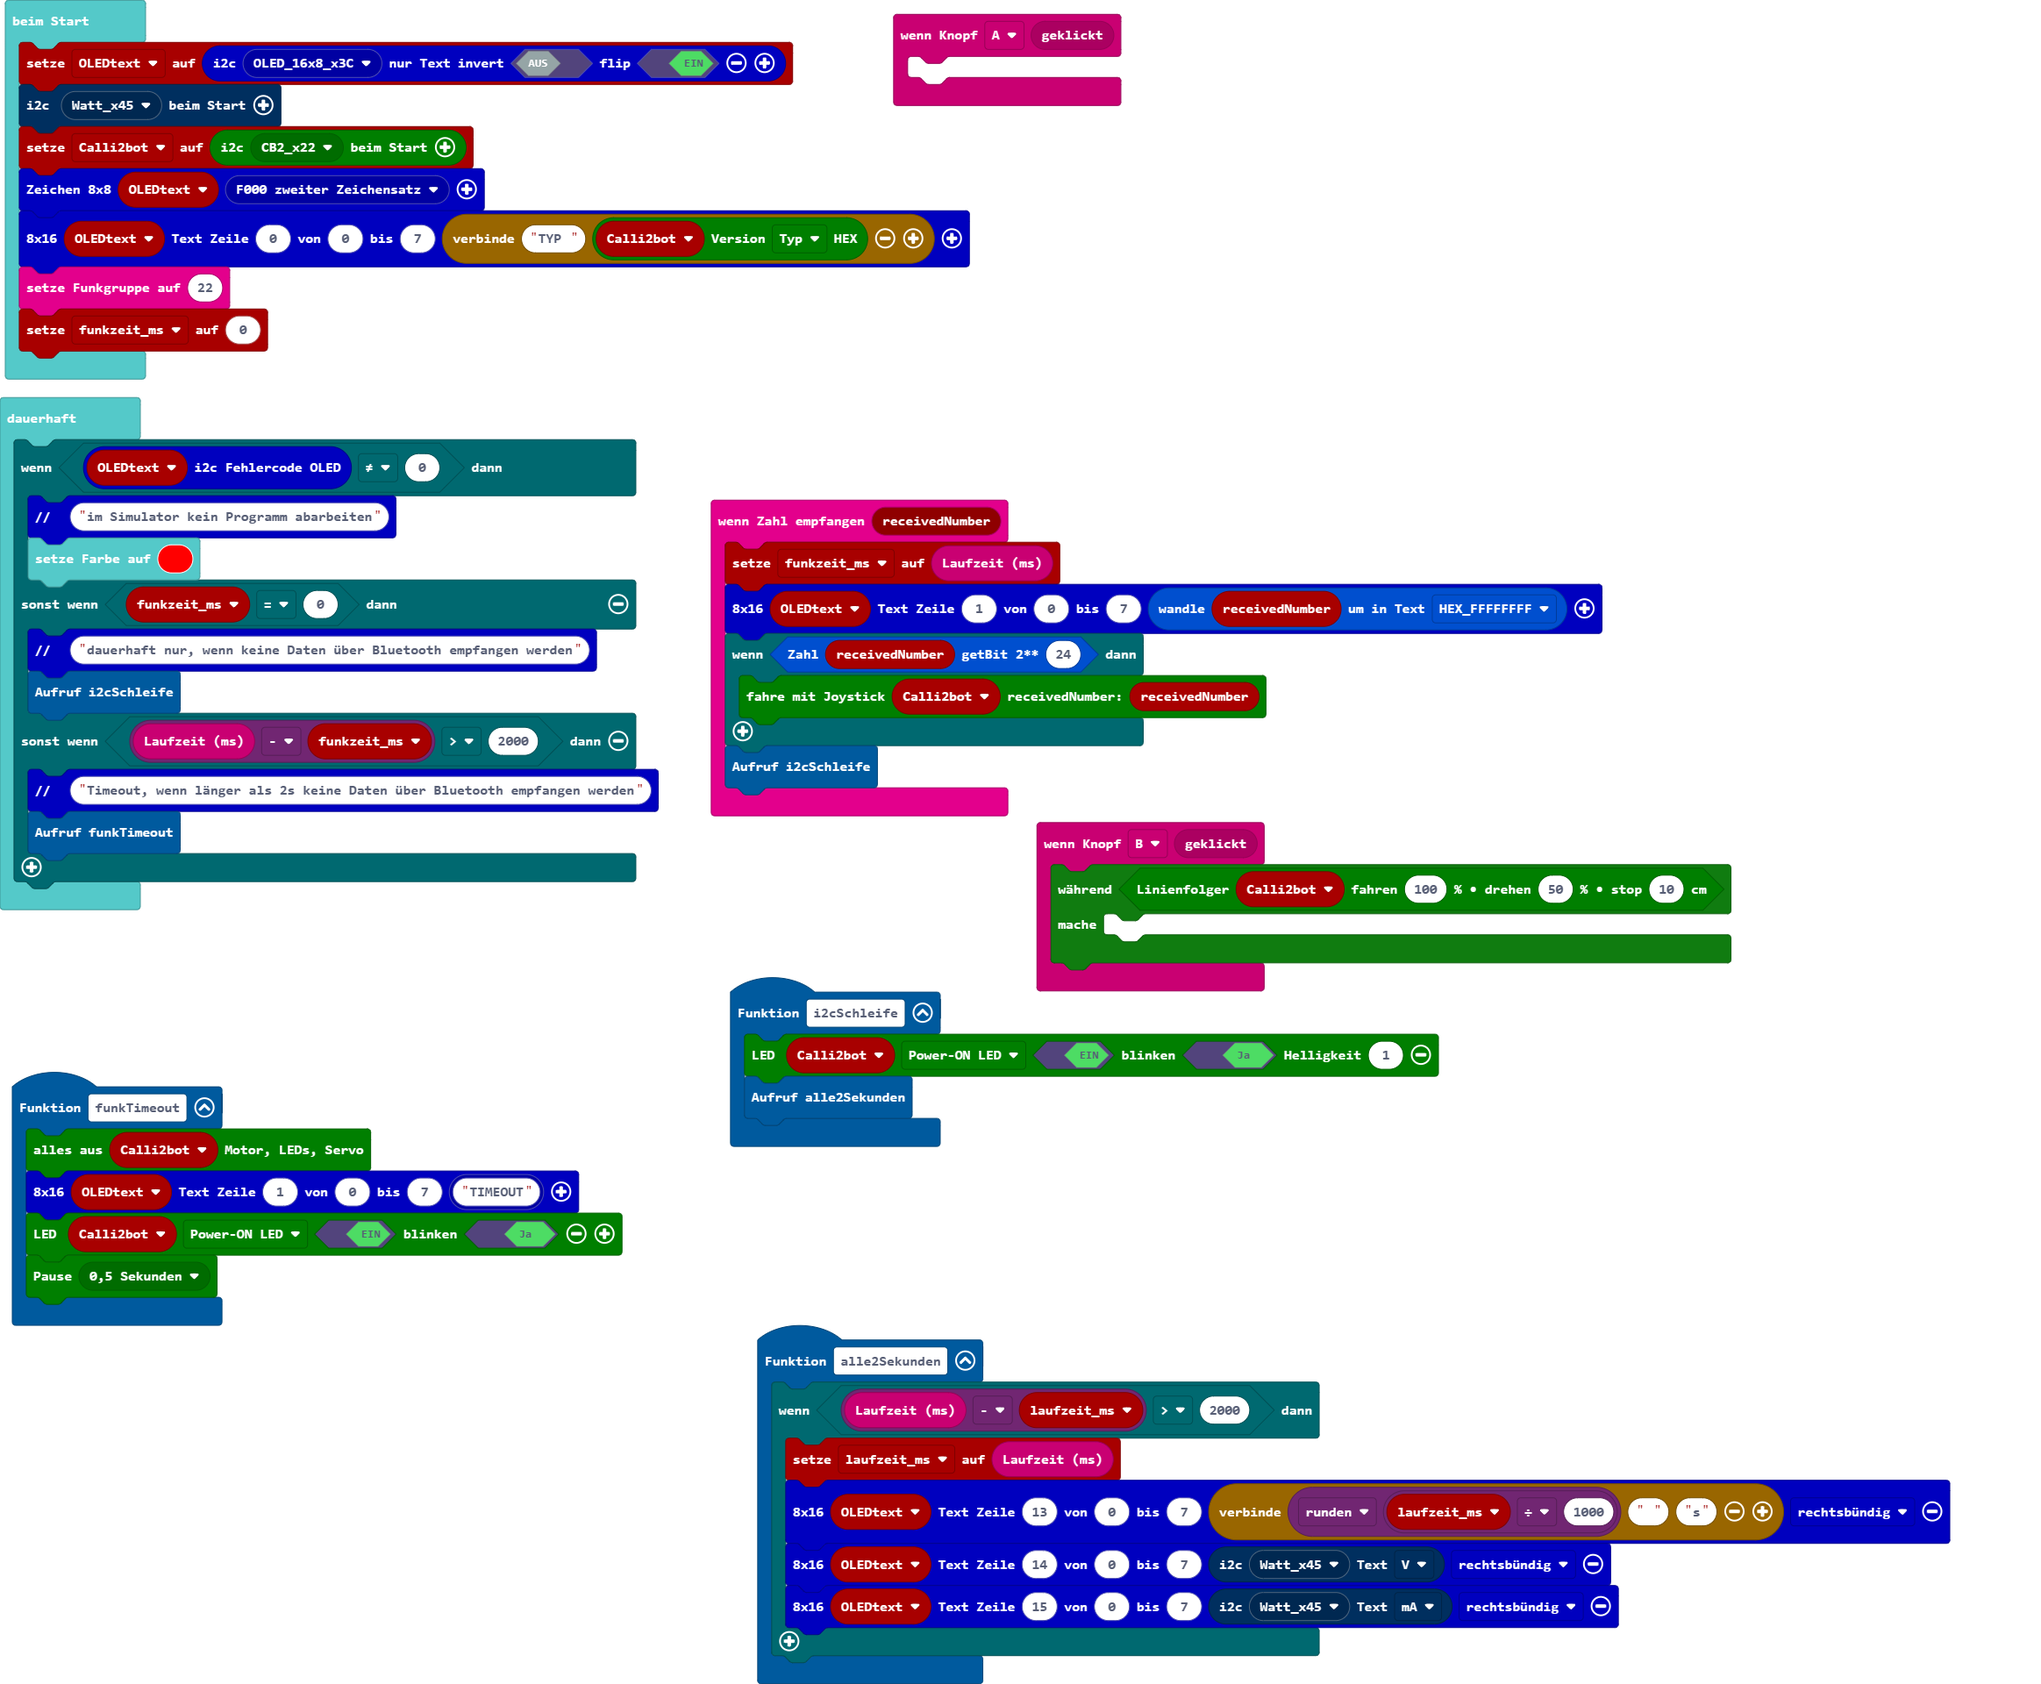
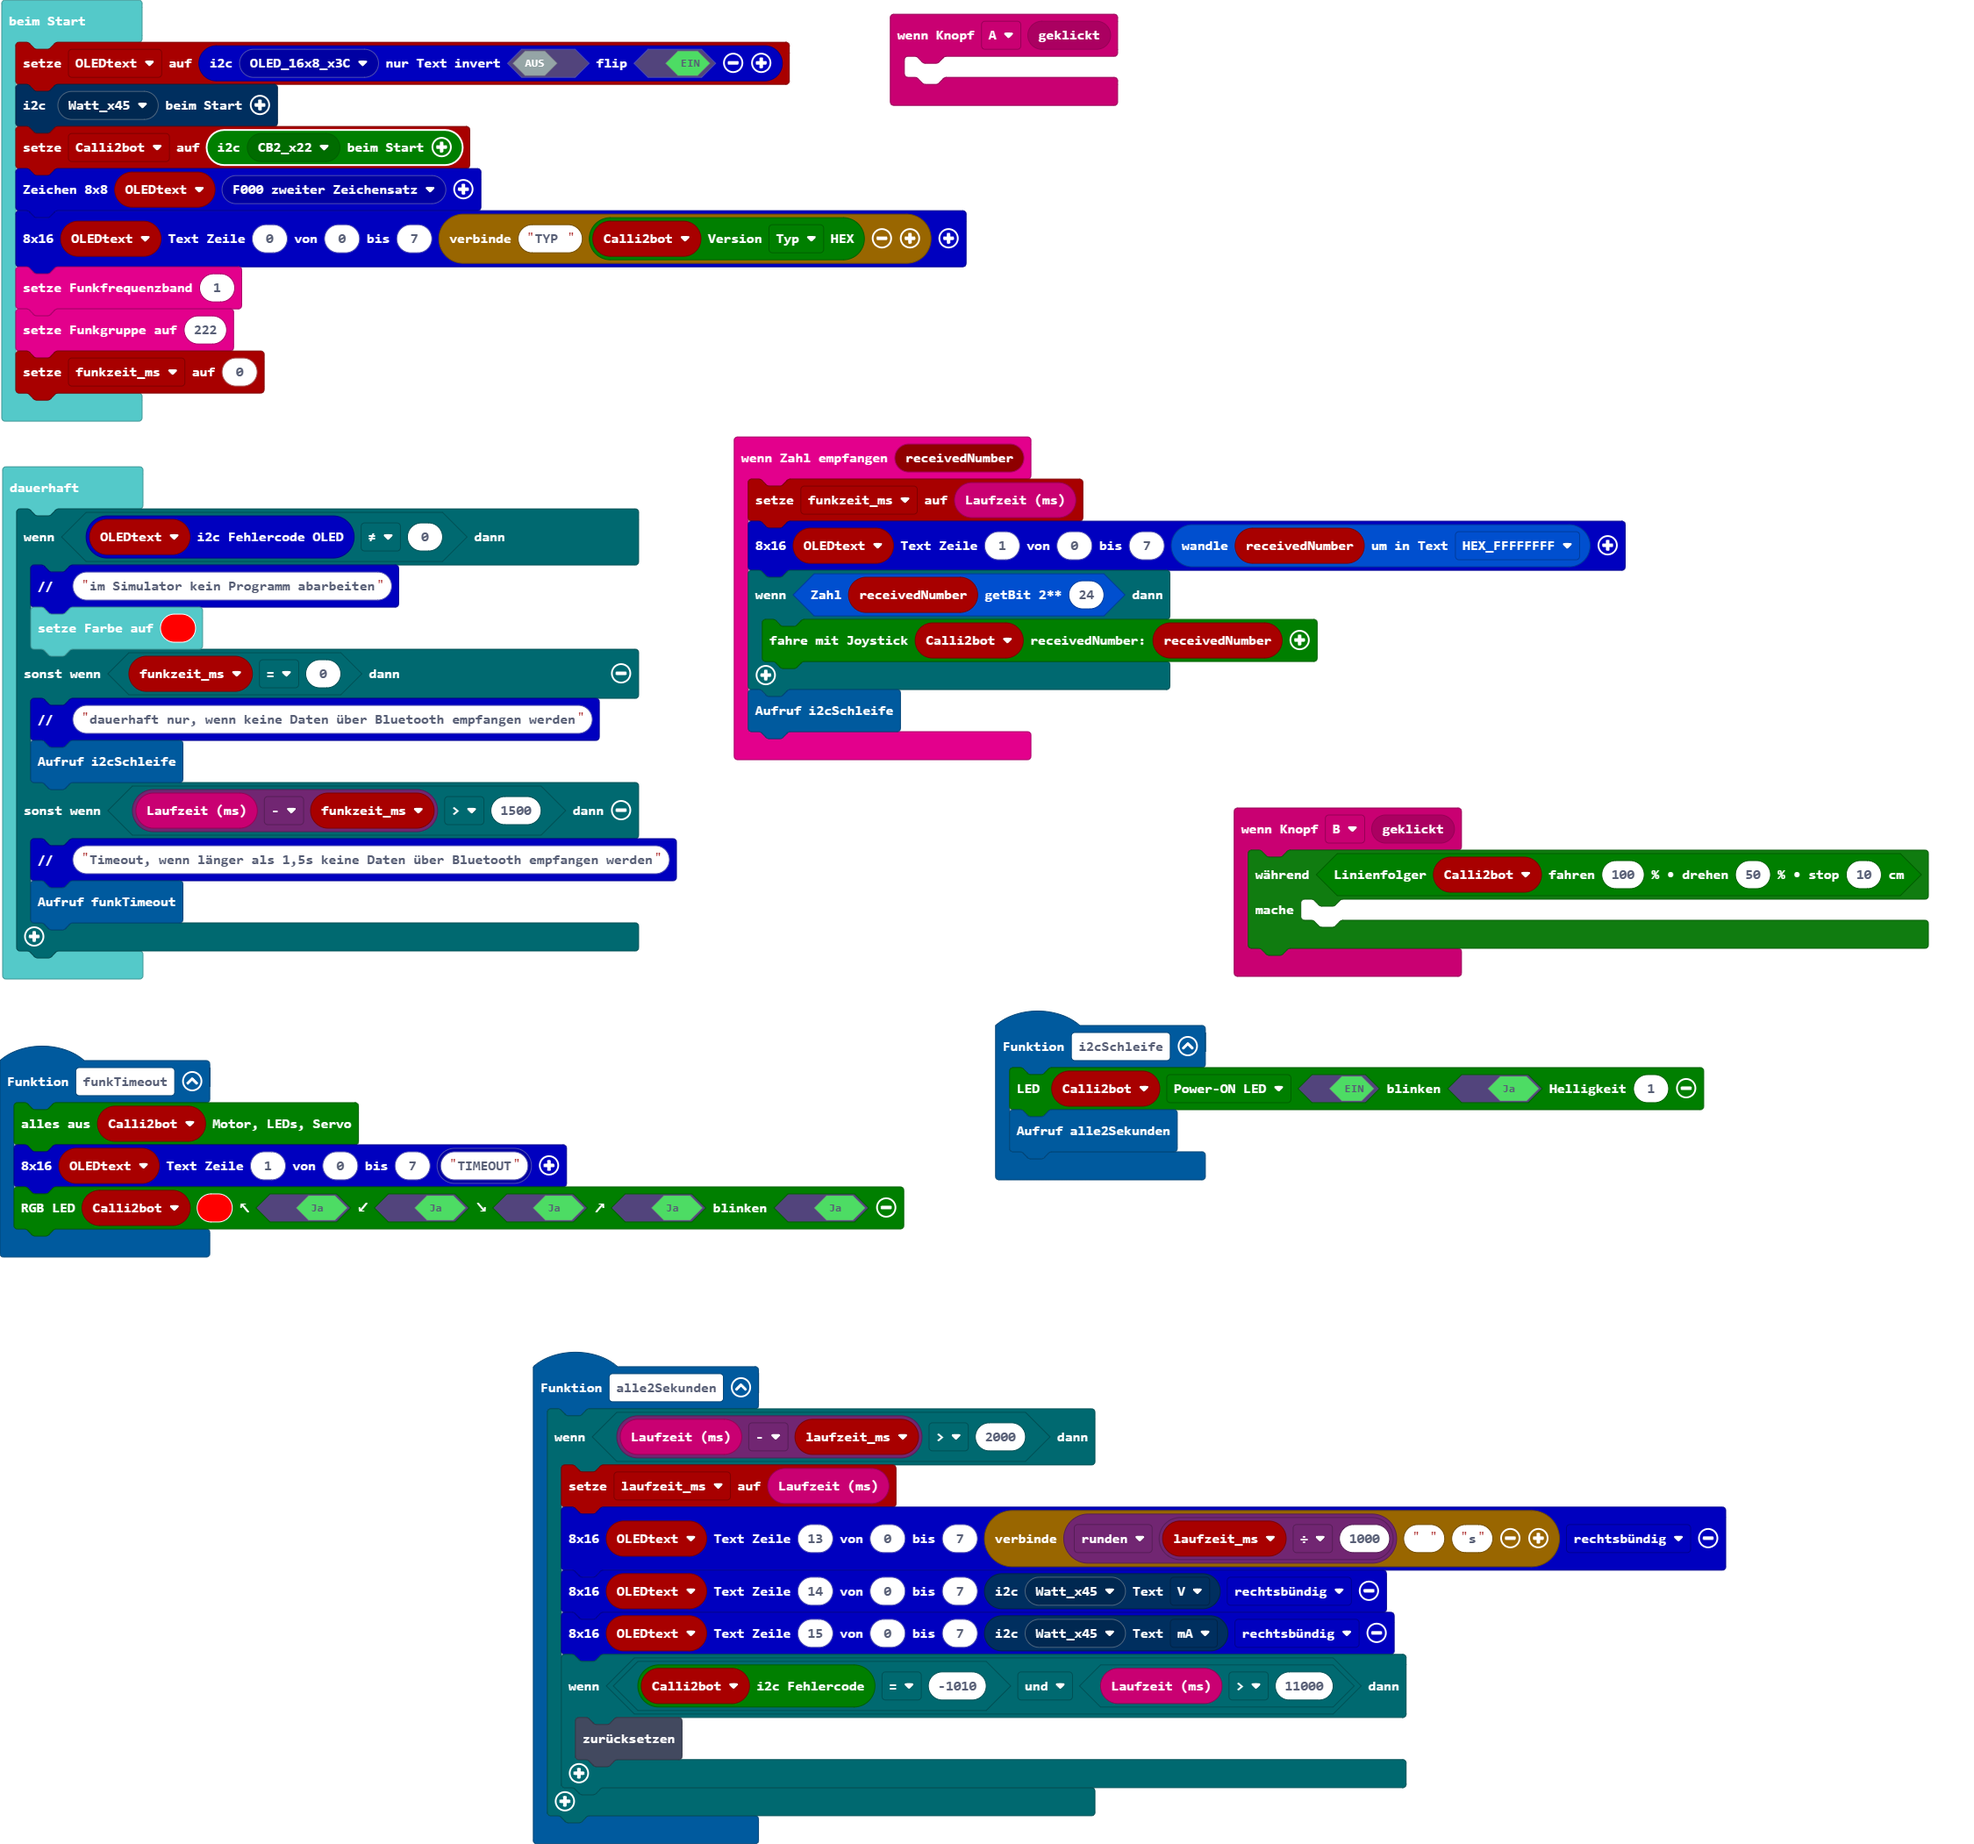
Aktualisiere main.blocks, main.ts

diff --git a/main.ts b/main.ts
@@ -9,8 +9,7 @@ radio.onReceivedNumber(function (receivedNumber) {
 function funkTimeout () {
     Calli2bot.i2cRESET_OUTPUTS()
     OLEDtext.writeText8x16(1, 0, 7, oled.oled_text("TIMEOUT"))
-    Calli2bot.setLed1(calli2bot.eLed.poweron, true, true)
-    calli2bot.pause(calli2bot.calli2bot_ePause(calli2bot.ePause.p05))
+    Calli2bot.setRgbLed3(0xff0000, true, true, true, true, true)
 }
 input.onButtonEvent(Button.A, input.buttonEventClick(), function () {
 	
@@ -30,6 +29,9 @@ function alle2Sekunden () {
         OLEDtext.writeText8x16(13, 0, 7, "" + Math.round(laufzeit_ms / 1000) + " " + "s", oled.eAlign.rechts)
         OLEDtext.writeText8x16(14, 0, 7, wattmeter.statuszeile(wattmeter.wattmeter_eADDR(wattmeter.eADDR.Watt_x45), wattmeter.eStatuszeile.v), oled.eAlign.rechts)
         OLEDtext.writeText8x16(15, 0, 7, wattmeter.statuszeile(wattmeter.wattmeter_eADDR(wattmeter.eADDR.Watt_x45), wattmeter.eStatuszeile.mA), oled.eAlign.rechts)
+        if (Calli2bot.geti2cError() == -1010 && input.runningTime() > 11000) {
+            control.reset()
+        }
     }
 }
 let laufzeit_ms = 0
@@ -41,7 +43,8 @@ wattmeter.reset(wattmeter.wattmeter_eADDR(wattmeter.eADDR.Watt_x45))
 Calli2bot = calli2bot.beimStart(calli2bot.calli2bot_eADDR(calli2bot.eADDR.CB2_x22))
 OLEDtext.set_eeprom_8x8(oled.oled_eEEPROM_Startadresse(oled.eEEPROM_Startadresse.F000))
 OLEDtext.writeText8x16(0, 0, 7, "TYP " + Calli2bot.i2cReadFW_VERSION(calli2bot.eVersion.Typ))
-radio.setGroup(22)
+radio.setFrequencyBand(1)
+radio.setGroup(222)
 funkzeit_ms = 0
 basic.forever(function () {
     if (OLEDtext.geti2cError_OLED() != 0) {
@@ -50,8 +53,8 @@ basic.forever(function () {
     } else if (funkzeit_ms == 0) {
         oled.comment("dauerhaft nur, wenn keine Daten über Bluetooth empfangen werden")
         i2cSchleife()
-    } else if (input.runningTime() - funkzeit_ms > 2000) {
-        oled.comment("Timeout, wenn länger als 2s keine Daten über Bluetooth empfangen werden")
+    } else if (input.runningTime() - funkzeit_ms > 1500) {
+        oled.comment("Timeout, wenn länger als 1,5s keine Daten über Bluetooth empfangen werden")
         funkTimeout()
     }
 })
